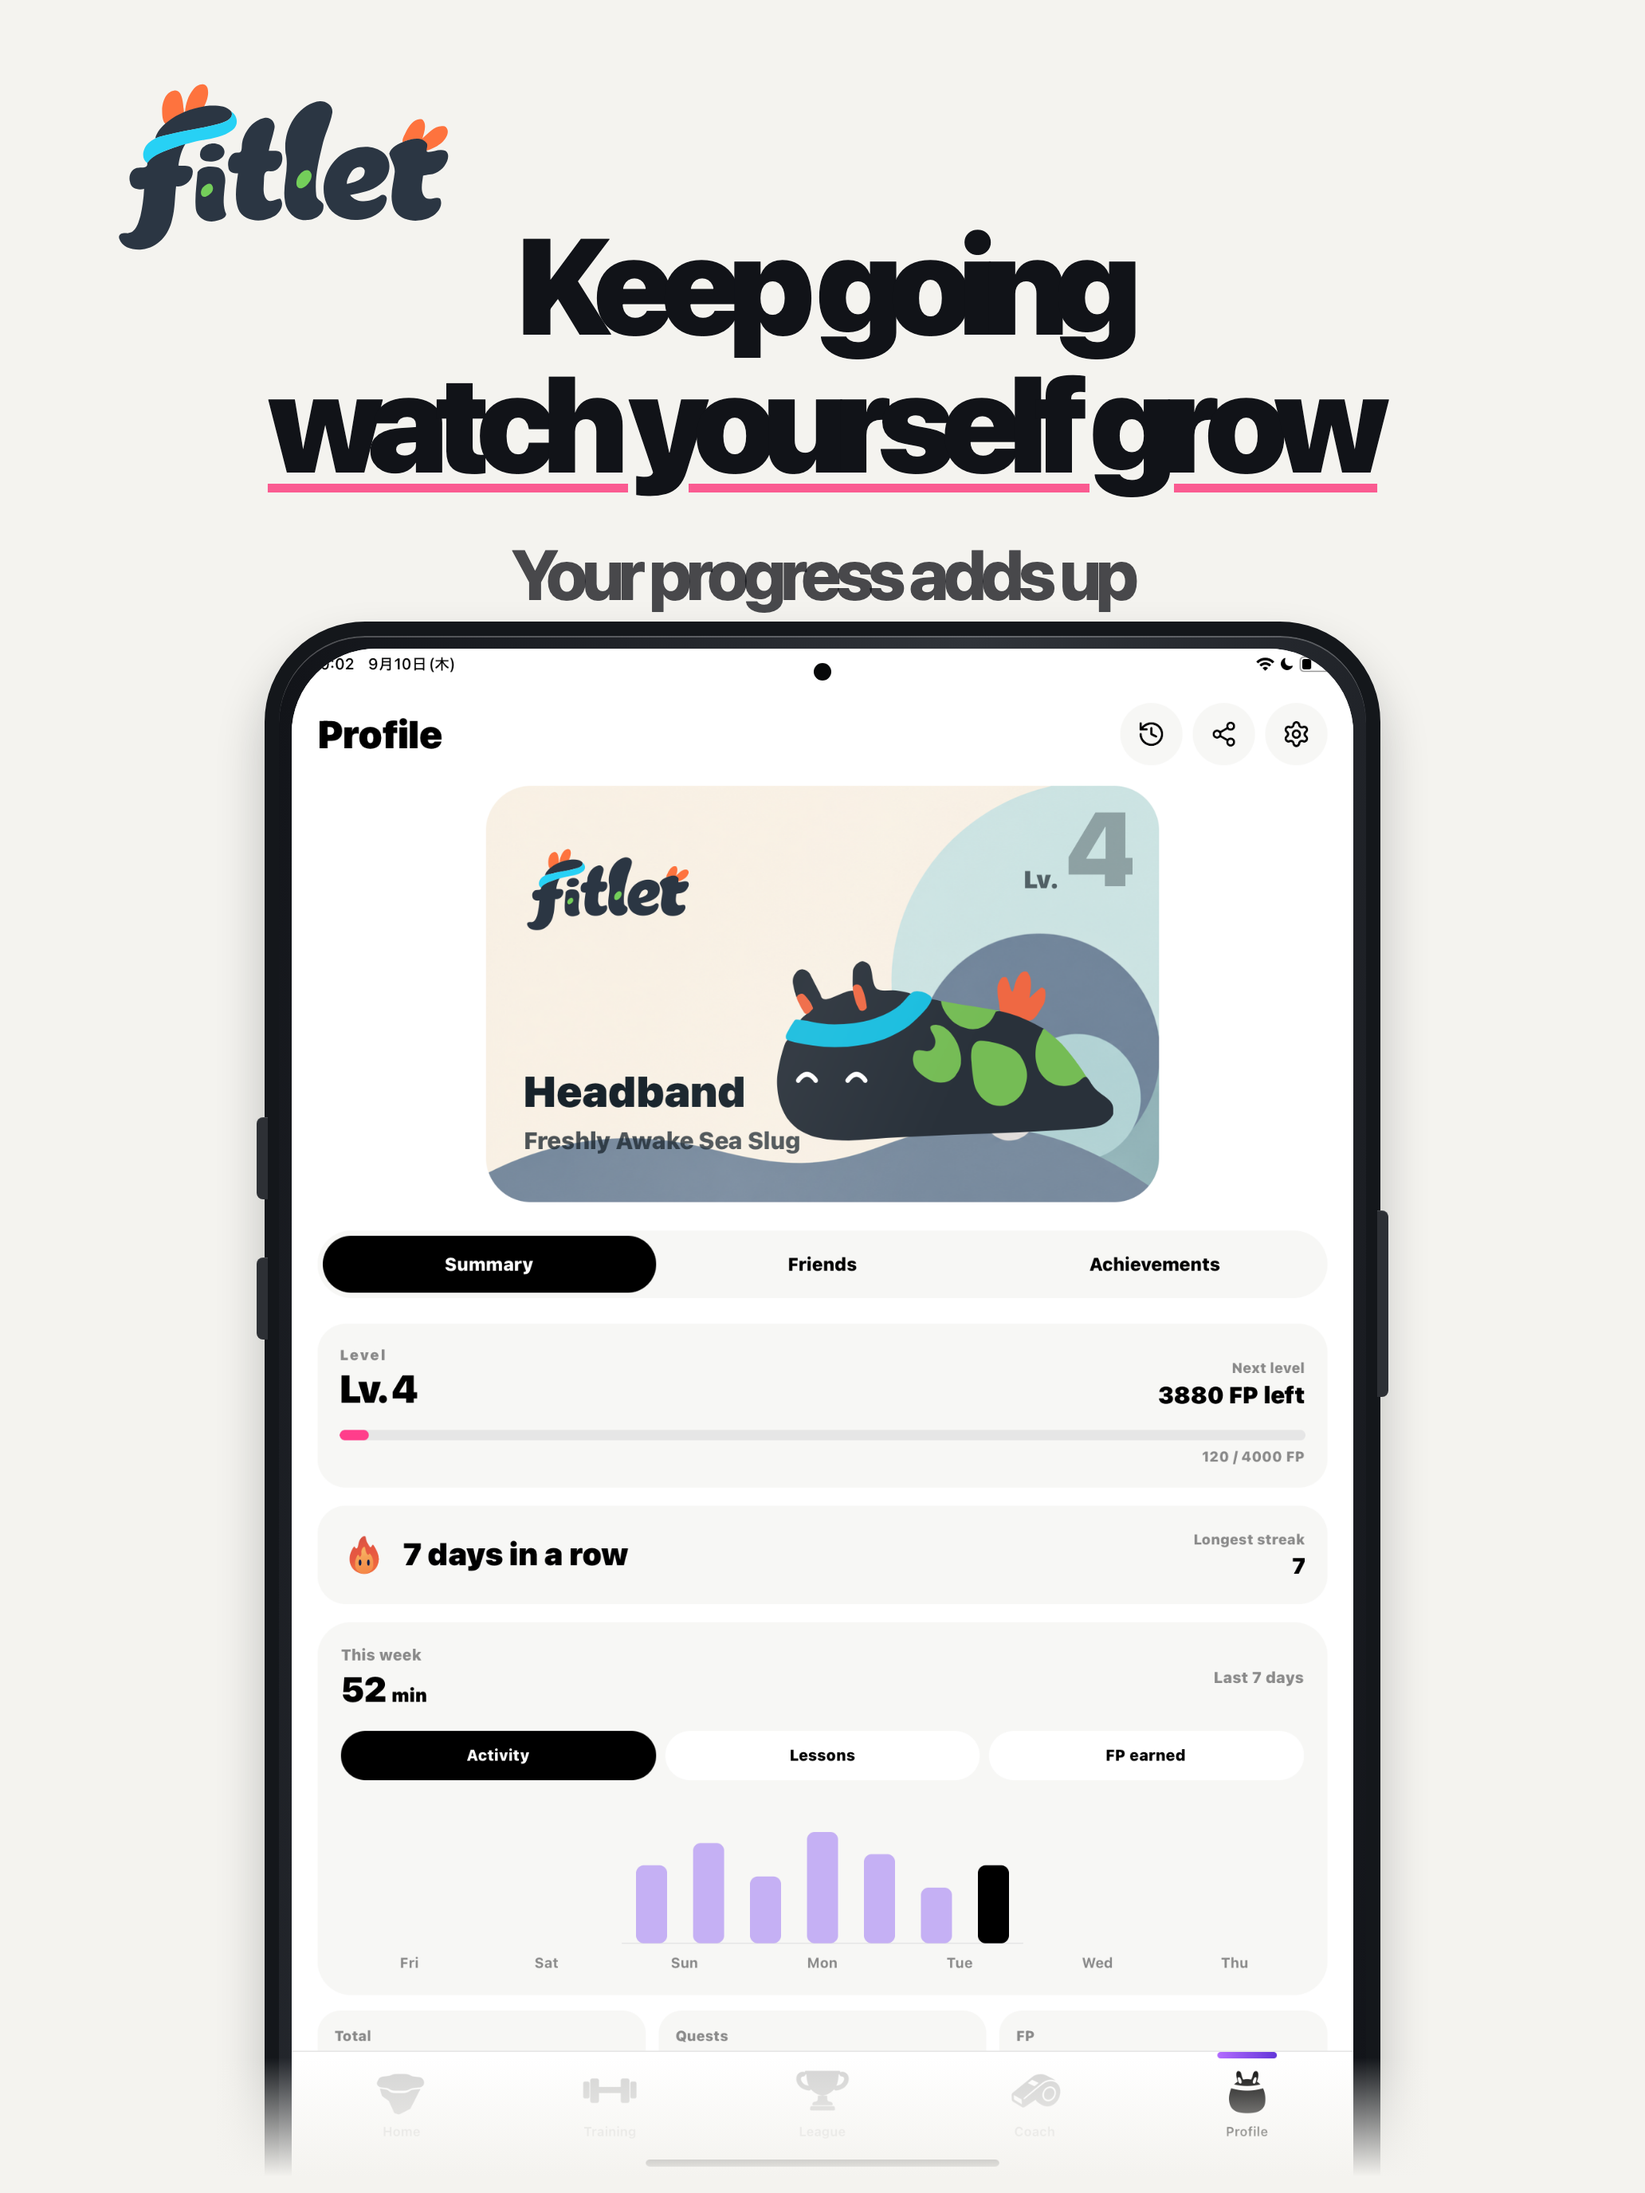
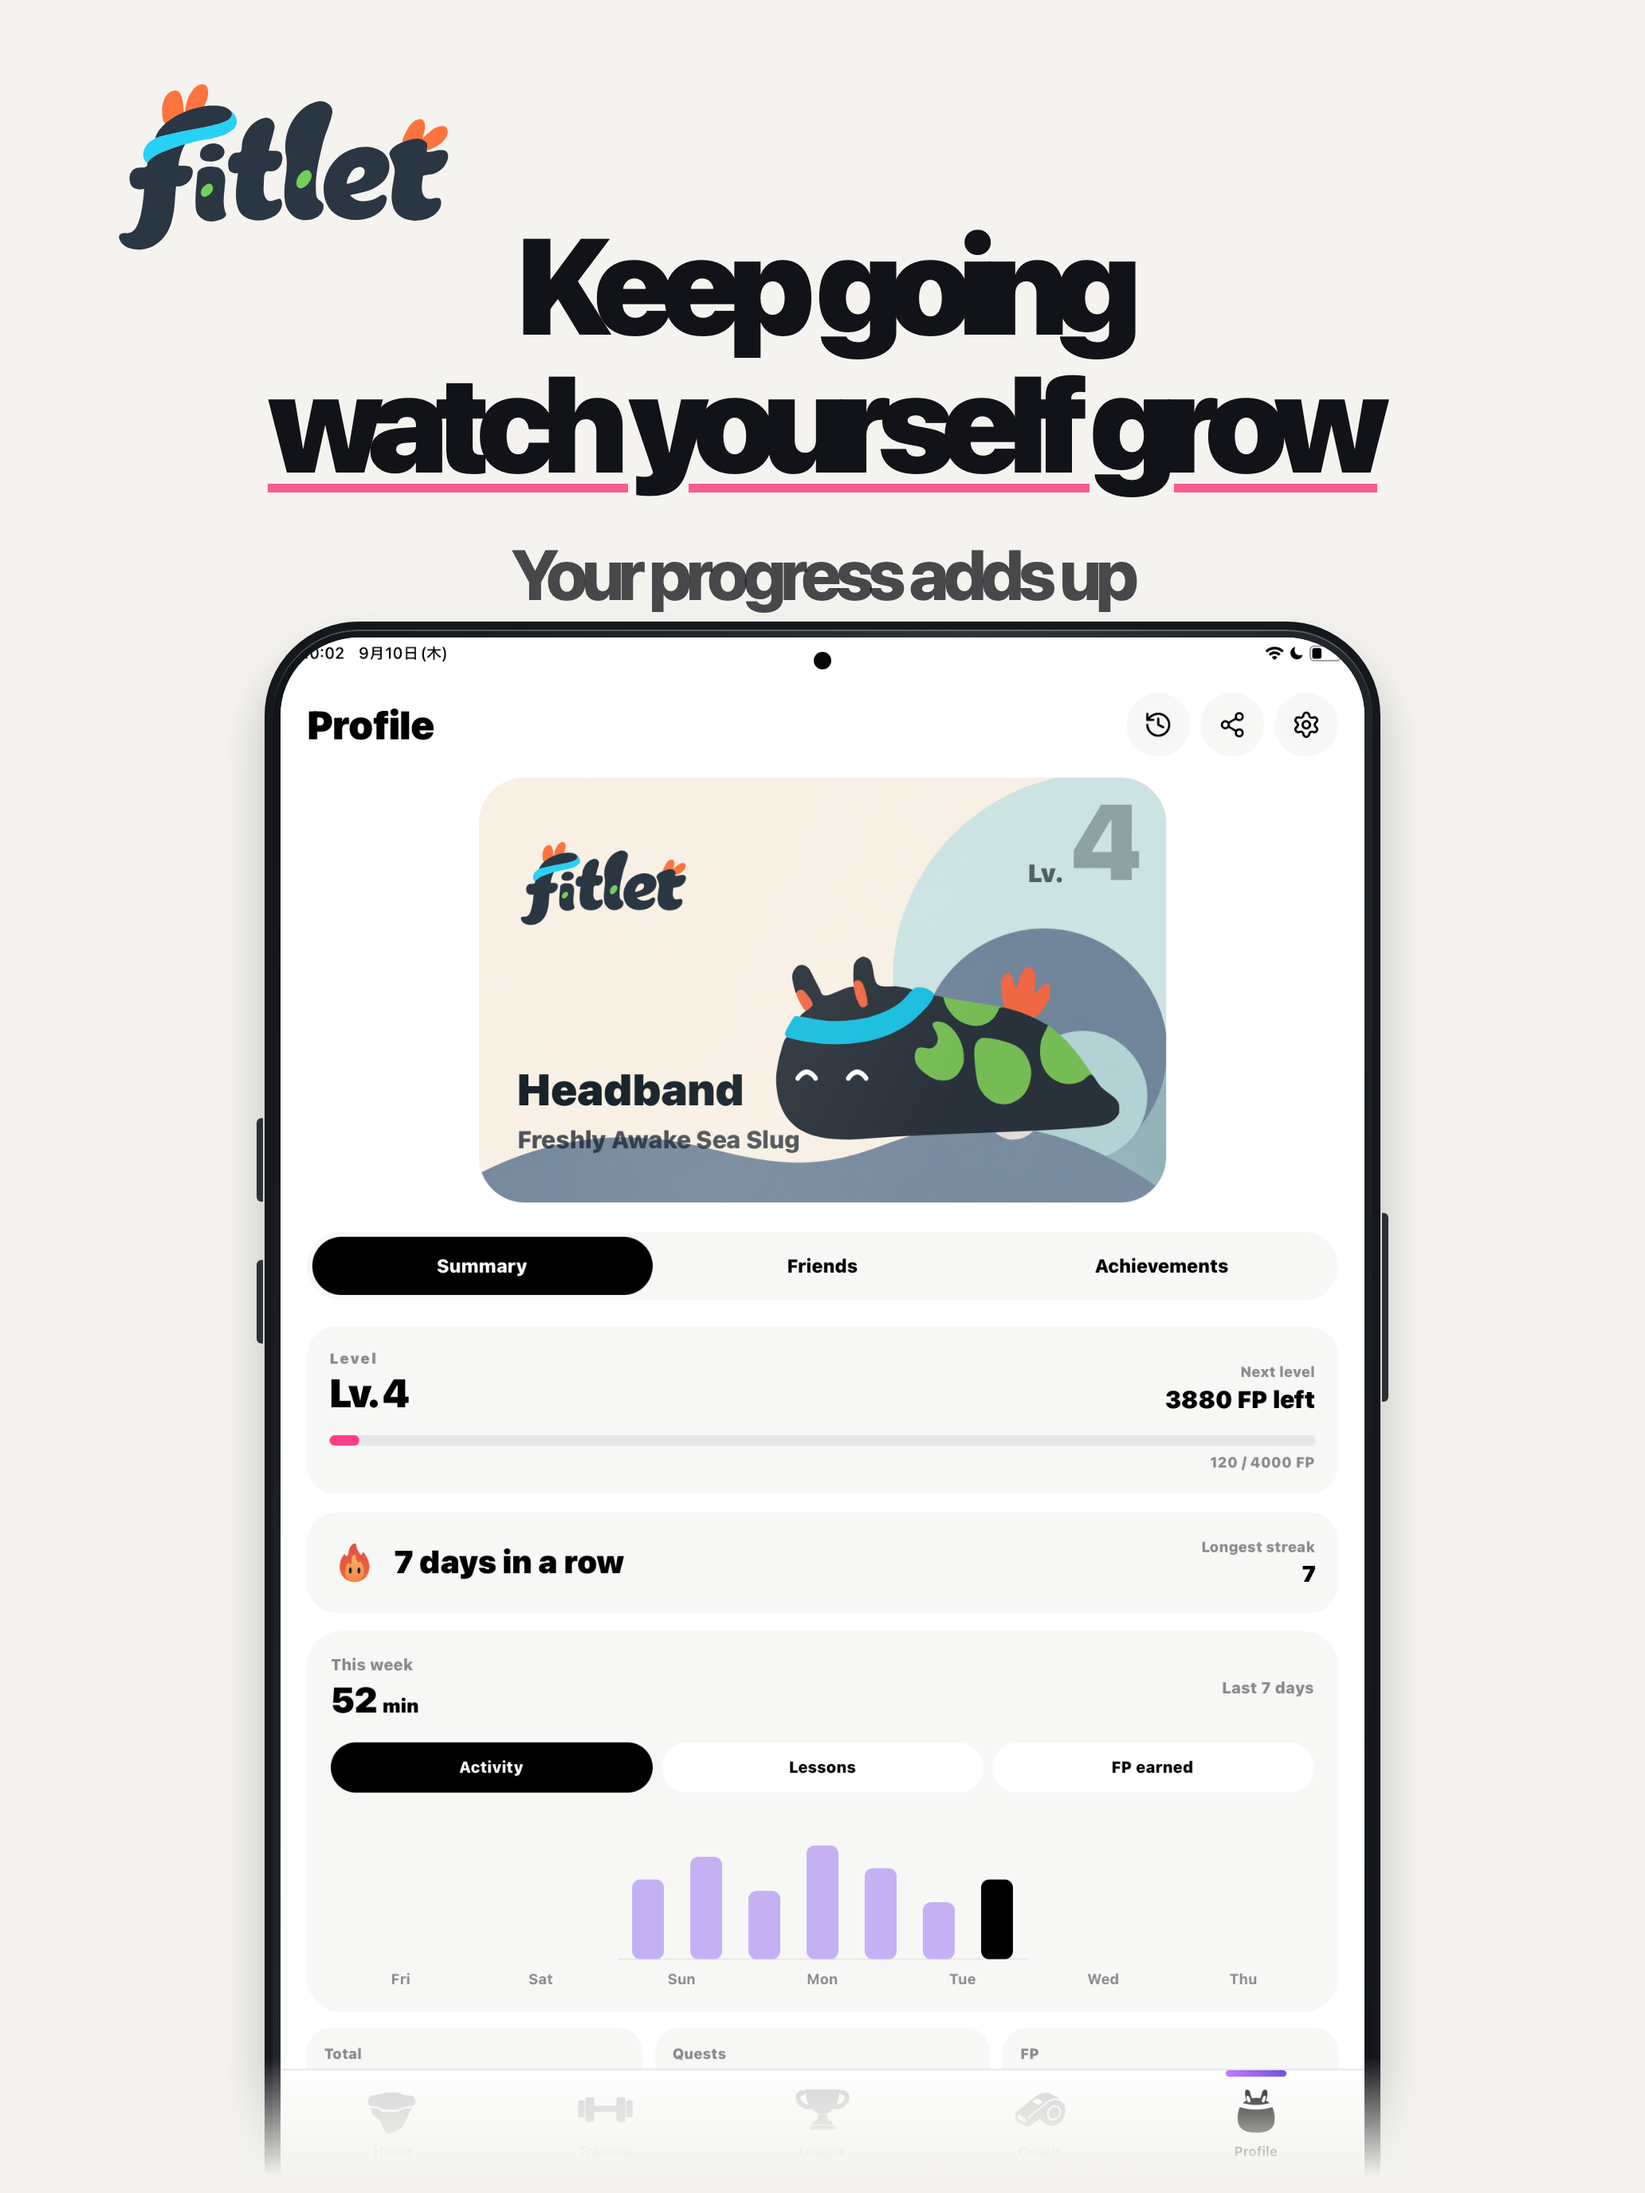
Refine iPad screenshot frame

diff --git a/app/globals.css b/app/globals.css
@@ -1186,13 +1186,13 @@ html[lang="en"] .fitlet-new-friend-hero h1 { letter-spacing: -.045em; }
   top: 780px;
   left: 332px;
   width: 1400px;
-  border-width: 18px;
-  border-radius: 126px 126px 0 0;
-  padding: 16px;
+  border-width: 10px;
+  border-radius: 118px 118px 0 0;
+  padding: 10px;
 }
 .store-shot-ipad .store-shot-screen {
   aspect-ratio: 1640 / 2360;
-  border-radius: 106px 106px 0 0;
+  border-radius: 98px 98px 0 0;
 }
 .store-shot-ipad .store-shot-notch {
   top: 18px;
@@ -1200,12 +1200,12 @@ html[lang="en"] .fitlet-new-friend-hero h1 { letter-spacing: -.045em; }
   height: 22px;
 }
 .store-shot-ipad .store-shot-side-button {
-  width: 14px;
-  border-radius: 8px 0 0 8px;
+  width: 8px;
+  border-radius: 6px 0 0 6px;
 }
-.store-shot-ipad .store-shot-side-button-left-one { left: -28px; }
-.store-shot-ipad .store-shot-side-button-left-two { left: -28px; }
-.store-shot-ipad .store-shot-side-button-right { right: -28px; border-radius: 0 8px 8px 0; }
+.store-shot-ipad .store-shot-side-button-left-one { left: -20px; }
+.store-shot-ipad .store-shot-side-button-left-two { left: -20px; }
+.store-shot-ipad .store-shot-side-button-right { right: -20px; border-radius: 0 6px 6px 0; }
 
 .store-shot-gallery {
   min-height: 100vh;
